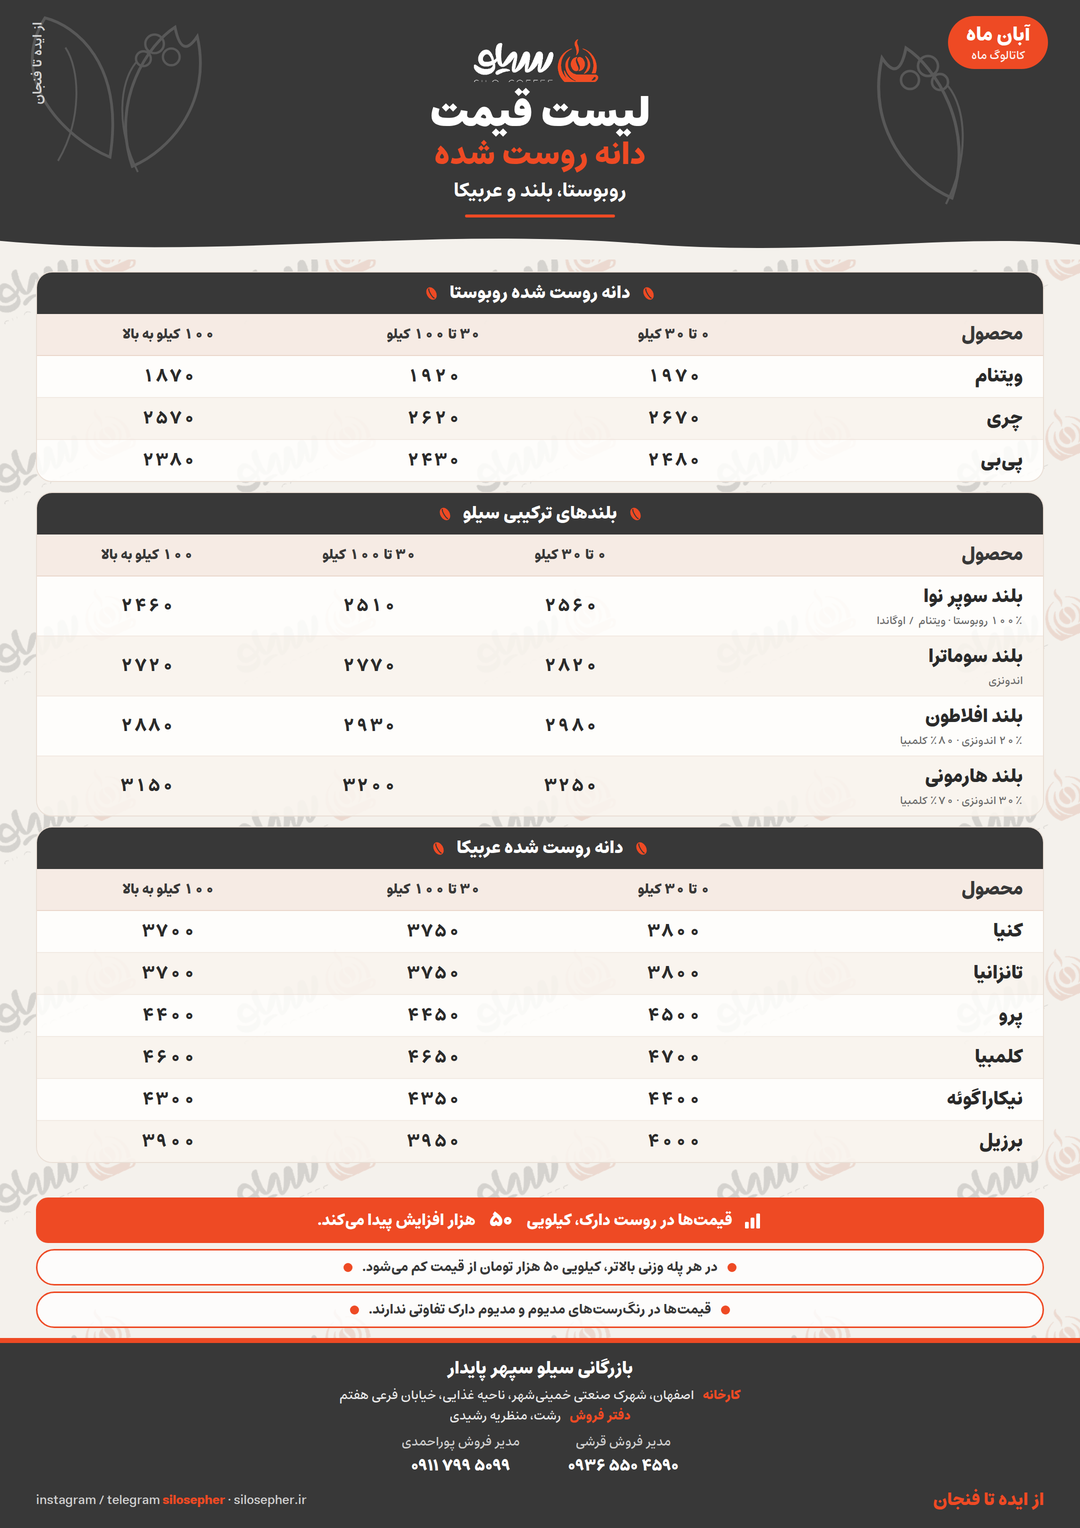
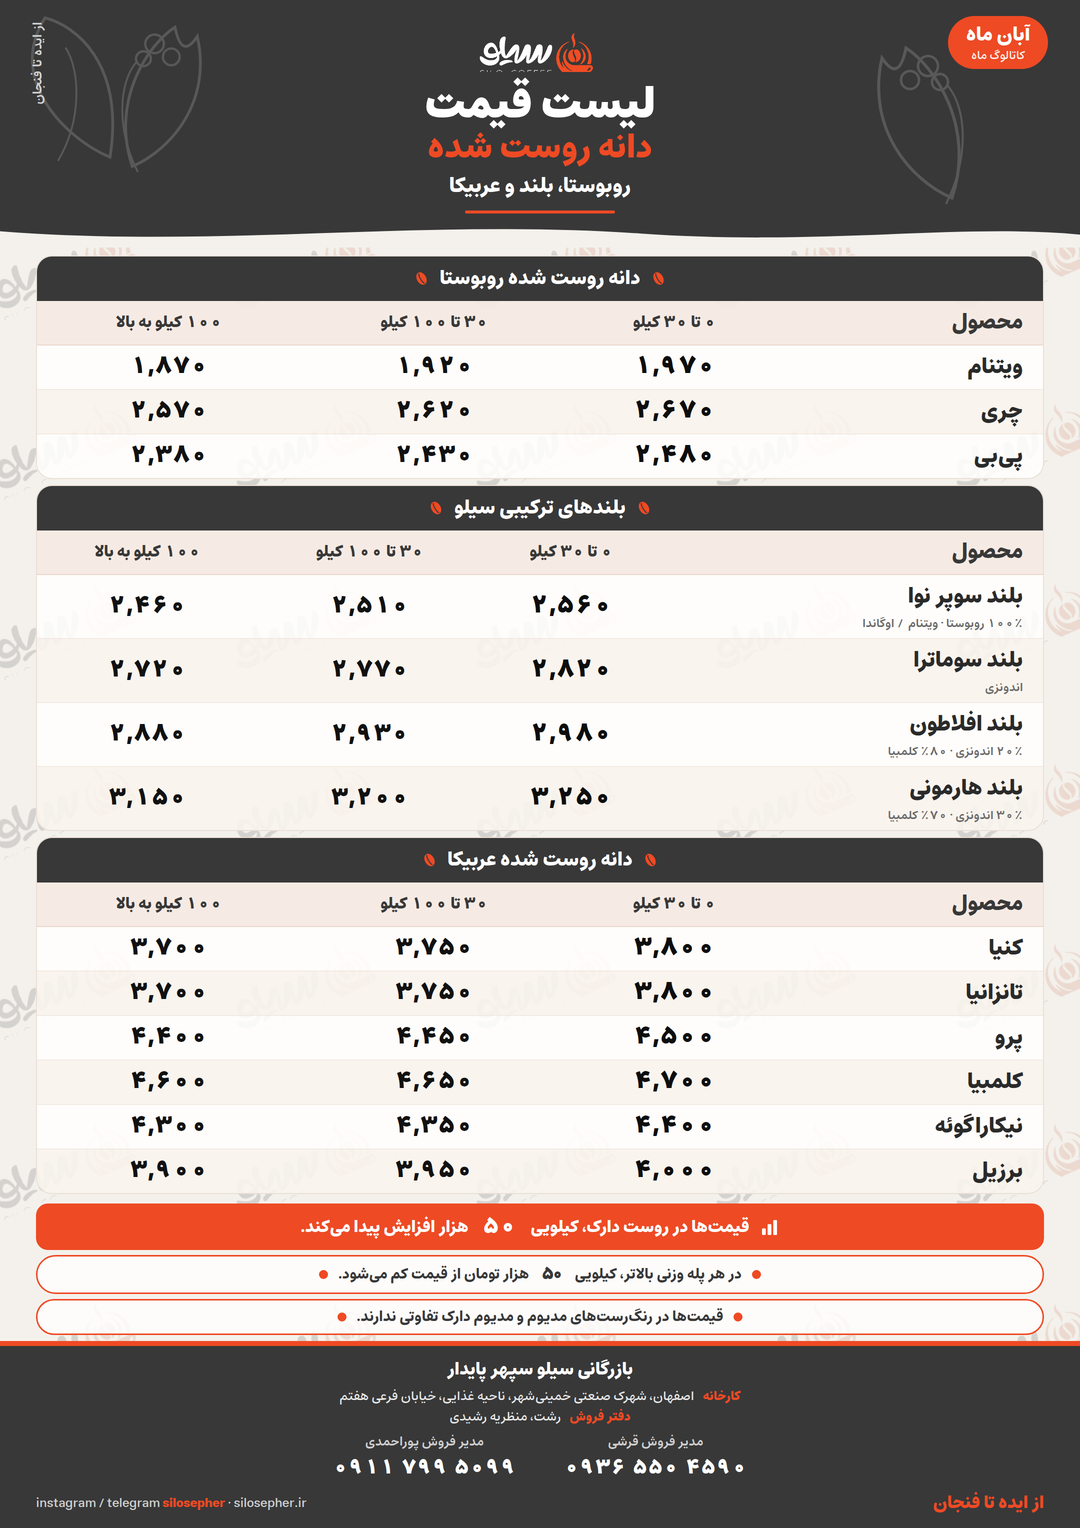
Enlarge catalog type and bold price numerals
Make product names and section labels larger, set prices in extra-bold
tabular figures with thousand separators, and keep the sheet on A4.

diff --git a/catalog/index.html b/catalog/index.html
@@ -32,6 +32,8 @@
       font-family: Estedad, "Noto Naskh Arabic", Tahoma, sans-serif;
       color: var(--ink-deep);
       -webkit-font-smoothing: antialiased;
+      text-rendering: optimizeLegibility;
+      font-kerning: normal;
     }
 
     .poster {
@@ -48,7 +50,7 @@
       position: relative;
       background: var(--ink);
       color: #fff;
-      padding: 16px 40px 42px;
+      padding: 12px 40px 34px;
       overflow: hidden;
       flex: 0 0 auto;
     }
@@ -98,7 +100,7 @@
       text-align: center;
       padding-top: 2px;
     }
-    .logo { height: 64px; }
+    .logo { height: 58px; }
 
     .titles {
       text-align: center;
@@ -107,21 +109,21 @@
       margin-top: 4px;
     }
     .titles h1 {
-      font-size: 42px;
+      font-size: 44px;
       font-weight: 900;
       line-height: 1;
       color: #fff;
     }
     .titles h2 {
-      font-size: 32px;
+      font-size: 34px;
       font-weight: 800;
       line-height: 1.1;
       color: var(--orange);
       margin-top: 2px;
     }
     .titles h3 {
-      font-size: 20px;
-      font-weight: 700;
+      font-size: 21px;
+      font-weight: 800;
       color: #fff;
       margin-top: 3px;
     }
@@ -137,14 +139,14 @@
       position: absolute;
       left: 0; right: 0; bottom: -1px;
       width: 100%;
-      height: 34px;
+      height: 30px;
       display: block;
     }
 
     .body {
       position: relative;
       flex: 1 1 auto;
-      padding: 12px 36px 10px;
+      padding: 8px 36px 6px;
       background-color: var(--paper);
       background-image: url("img/silo-watermark.png");
       background-repeat: repeat;
@@ -160,8 +162,9 @@
       border: 1px solid #eadfd6;
       border-radius: 16px;
       overflow: hidden;
-      margin-bottom: 10px;
+      margin-bottom: 6px;
       position: relative;
+      flex: 0 0 auto;
     }
 
     .section-title {
@@ -171,7 +174,7 @@
       gap: 10px;
       background: var(--ink);
       color: #fff;
-      font-size: 18px;
+      font-size: 20px;
       font-weight: 800;
       padding: 7px 14px;
     }
@@ -183,7 +186,7 @@
       font-variant-numeric: tabular-nums;
     }
     th, td {
-      padding: 6px 8px;
+      padding: 5px 8px;
       text-align: center;
       font-size: 18px;
     }
@@ -191,7 +194,7 @@
       background: rgba(243, 231, 223, 0.78);
       color: var(--ink);
       font-weight: 800;
-      font-size: 14px;
+      font-size: 16px;
       border-bottom: 1px solid #ead7cb;
     }
     td {
@@ -199,19 +202,37 @@
       color: #2a2a2a;
       border-bottom: 1px solid rgba(240, 230, 222, 0.8);
     }
+    td.price {
+      font-weight: 900;
+      font-size: 23px;
+      line-height: 1;
+      letter-spacing: 0;
+      color: #111;
+      white-space: nowrap;
+      direction: ltr;
+      unicode-bidi: isolate;
+      font-variant-numeric: tabular-nums;
+      font-feature-settings: "tnum" 1, "kern" 1;
+      font-variation-settings: "wght" 900;
+    }
+    td.price.base {
+      font-size: 24px;
+      color: #0d0d0d;
+    }
     td.prod, th.prod {
       text-align: right;
       padding-right: 20px;
       font-weight: 800;
-      font-size: 19px;
+      font-size: 22px;
       width: 26%;
     }
     td.prod .mix {
       display: block;
-      font-size: 11px;
-      font-weight: 500;
+      font-size: 12px;
+      font-weight: 600;
       color: var(--muted);
       margin-top: 1px;
+      letter-spacing: 0;
     }
     .blends td.prod, .blends th.prod { width: 38%; }
     tbody tr:nth-child(even) td { background: rgba(247, 239, 232, 0.58); }
@@ -226,42 +247,50 @@
       margin-top: 1px;
     }
 
-    .notes { margin-top: auto; }
+    .notes { margin-top: auto; flex: 0 0 auto; }
 
     .note-main {
       background: var(--orange);
       color: #fff;
       border-radius: 12px;
-      padding: 8px 16px 7px;
+      padding: 7px 16px 6px;
       display: flex;
       align-items: center;
       justify-content: center;
       gap: 10px;
-      font-size: 16px;
+      font-size: 17px;
       font-weight: 800;
       text-align: center;
     }
     .note-main .ico { width: 20px; height: 20px; flex: 0 0 auto; }
     .note-main b {
-      font-size: 20px;
+      font-size: 22px;
       font-weight: 900;
       padding: 0 4px;
+      font-variant-numeric: tabular-nums;
+      font-variation-settings: "wght" 900;
     }
 
     .note-sub {
-      margin-top: 6px;
+      margin-top: 5px;
       border: 1.5px solid var(--orange);
       color: var(--ink);
       border-radius: 999px;
-      padding: 6px 16px;
+      padding: 5px 16px;
       text-align: center;
       font-weight: 700;
-      font-size: 14px;
+      font-size: 15px;
       background: rgba(255, 255, 255, 0.78);
       display: flex;
       align-items: center;
       justify-content: center;
       gap: 10px;
+    }
+    .note-sub b {
+      font-weight: 900;
+      font-size: 17px;
+      font-variation-settings: "wght" 900;
+      padding: 0 3px;
     }
     .dot {
       width: 9px; height: 9px; border-radius: 50%;
@@ -273,7 +302,7 @@
     .footer {
       background: var(--ink);
       color: #fff;
-      padding: 12px 36px 14px;
+      padding: 10px 36px 11px;
       flex: 0 0 auto;
     }
     .footer h4 {
@@ -298,28 +327,30 @@
       display: flex;
       justify-content: center;
       gap: 48px;
-      margin-top: 6px;
+      margin-top: 5px;
       text-align: center;
     }
     .phones .lbl {
       font-size: 13px;
-      font-weight: 500;
+      font-weight: 600;
       color: #cfcfcf;
-      margin-bottom: 2px;
+      margin-bottom: 1px;
     }
     .phones .num {
       direction: ltr;
       unicode-bidi: isolate;
-      font-weight: 800;
+      font-weight: 900;
       color: #fff;
-      font-size: 16px;
-      letter-spacing: 0.6px;
+      font-size: 20px;
+      letter-spacing: 0.12em;
+      font-variant-numeric: tabular-nums;
+      font-variation-settings: "wght" 900;
     }
     .foot-row {
       display: flex;
       justify-content: space-between;
       align-items: center;
-      margin-top: 8px;
+      margin-top: 6px;
     }
     .social {
       font-size: 13px;
@@ -398,9 +429,9 @@
             </tr>
           </thead>
           <tbody>
-            <tr><td class="prod">ویتنام</td><td>۱۹۷۰</td><td>۱۹۲۰</td><td>۱۸۷۰</td></tr>
-            <tr><td class="prod">چری</td><td>۲۶۷۰</td><td>۲۶۲۰</td><td>۲۵۷۰</td></tr>
-            <tr><td class="prod">پیبی</td><td>۲۴۸۰</td><td>۲۴۳۰</td><td>۲۳۸۰</td></tr>
+            <tr><td class="prod">ویتنام</td><td class="price base">۱,۹۷۰</td><td class="price">۱,۹۲۰</td><td class="price">۱,۸۷۰</td></tr>
+            <tr><td class="prod">چری</td><td class="price base">۲,۶۷۰</td><td class="price">۲,۶۲۰</td><td class="price">۲,۵۷۰</td></tr>
+            <tr><td class="prod">پیبی</td><td class="price base">۲,۴۸۰</td><td class="price">۲,۴۳۰</td><td class="price">۲,۳۸۰</td></tr>
           </tbody>
         </table>
       </section>
@@ -429,19 +460,19 @@
           <tbody>
             <tr>
               <td class="prod">بلند سوپر نوا<span class="mix">۱۰۰٪ روبوستا · ویتنام / اوگاندا</span></td>
-              <td>۲۵۶۰</td><td>۲۵۱۰</td><td>۲۴۶۰</td>
+              <td class="price base">۲,۵۶۰</td><td class="price">۲,۵۱۰</td><td class="price">۲,۴۶۰</td>
             </tr>
             <tr>
               <td class="prod">بلند سوماترا<span class="mix">اندونزی</span></td>
-              <td>۲۸۲۰</td><td>۲۷۷۰</td><td>۲۷۲۰</td>
+              <td class="price base">۲,۸۲۰</td><td class="price">۲,۷۷۰</td><td class="price">۲,۷۲۰</td>
             </tr>
             <tr>
               <td class="prod">بلند افلاطون<span class="mix">۲۰٪ اندونزی · ۸۰٪ کلمبیا</span></td>
-              <td>۲۹۸۰</td><td>۲۹۳۰</td><td>۲۸۸۰</td>
+              <td class="price base">۲,۹۸۰</td><td class="price">۲,۹۳۰</td><td class="price">۲,۸۸۰</td>
             </tr>
             <tr>
               <td class="prod">بلند هارمونی<span class="mix">۳۰٪ اندونزی · ۷۰٪ کلمبیا</span></td>
-              <td>۳۲۵۰</td><td>۳۲۰۰</td><td>۳۱۵۰</td>
+              <td class="price base">۳,۲۵۰</td><td class="price">۳,۲۰۰</td><td class="price">۳,۱۵۰</td>
             </tr>
           </tbody>
         </table>
@@ -469,12 +500,12 @@
             </tr>
           </thead>
           <tbody>
-            <tr><td class="prod">کنیا</td><td>۳۸۰۰</td><td>۳۷۵۰</td><td>۳۷۰۰</td></tr>
-            <tr><td class="prod">تانزانیا</td><td>۳۸۰۰</td><td>۳۷۵۰</td><td>۳۷۰۰</td></tr>
-            <tr><td class="prod">پرو</td><td>۴۵۰۰</td><td>۴۴۵۰</td><td>۴۴۰۰</td></tr>
-            <tr><td class="prod">کلمبیا</td><td>۴۷۰۰</td><td>۴۶۵۰</td><td>۴۶۰۰</td></tr>
-            <tr><td class="prod">نیکاراگوئه</td><td>۴۴۰۰</td><td>۴۳۵۰</td><td>۴۳۰۰</td></tr>
-            <tr><td class="prod">برزیل</td><td>۴۰۰۰</td><td>۳۹۵۰</td><td>۳۹۰۰</td></tr>
+            <tr><td class="prod">کنیا</td><td class="price base">۳,۸۰۰</td><td class="price">۳,۷۵۰</td><td class="price">۳,۷۰۰</td></tr>
+            <tr><td class="prod">تانزانیا</td><td class="price base">۳,۸۰۰</td><td class="price">۳,۷۵۰</td><td class="price">۳,۷۰۰</td></tr>
+            <tr><td class="prod">پرو</td><td class="price base">۴,۵۰۰</td><td class="price">۴,۴۵۰</td><td class="price">۴,۴۰۰</td></tr>
+            <tr><td class="prod">کلمبیا</td><td class="price base">۴,۷۰۰</td><td class="price">۴,۶۵۰</td><td class="price">۴,۶۰۰</td></tr>
+            <tr><td class="prod">نیکاراگوئه</td><td class="price base">۴,۴۰۰</td><td class="price">۴,۳۵۰</td><td class="price">۴,۳۰۰</td></tr>
+            <tr><td class="prod">برزیل</td><td class="price base">۴,۰۰۰</td><td class="price">۳,۹۵۰</td><td class="price">۳,۹۰۰</td></tr>
           </tbody>
         </table>
       </section>
@@ -490,7 +521,7 @@
         </div>
         <div class="note-sub">
           <span class="dot"></span>
-          در هر پله وزنی بالاتر، کیلویی ۵۰ هزار تومان از قیمت کم میشود.
+          در هر پله وزنی بالاتر، کیلویی <b>۵۰</b> هزار تومان از قیمت کم میشود.
           <span class="dot"></span>
         </div>
         <div class="note-sub">
